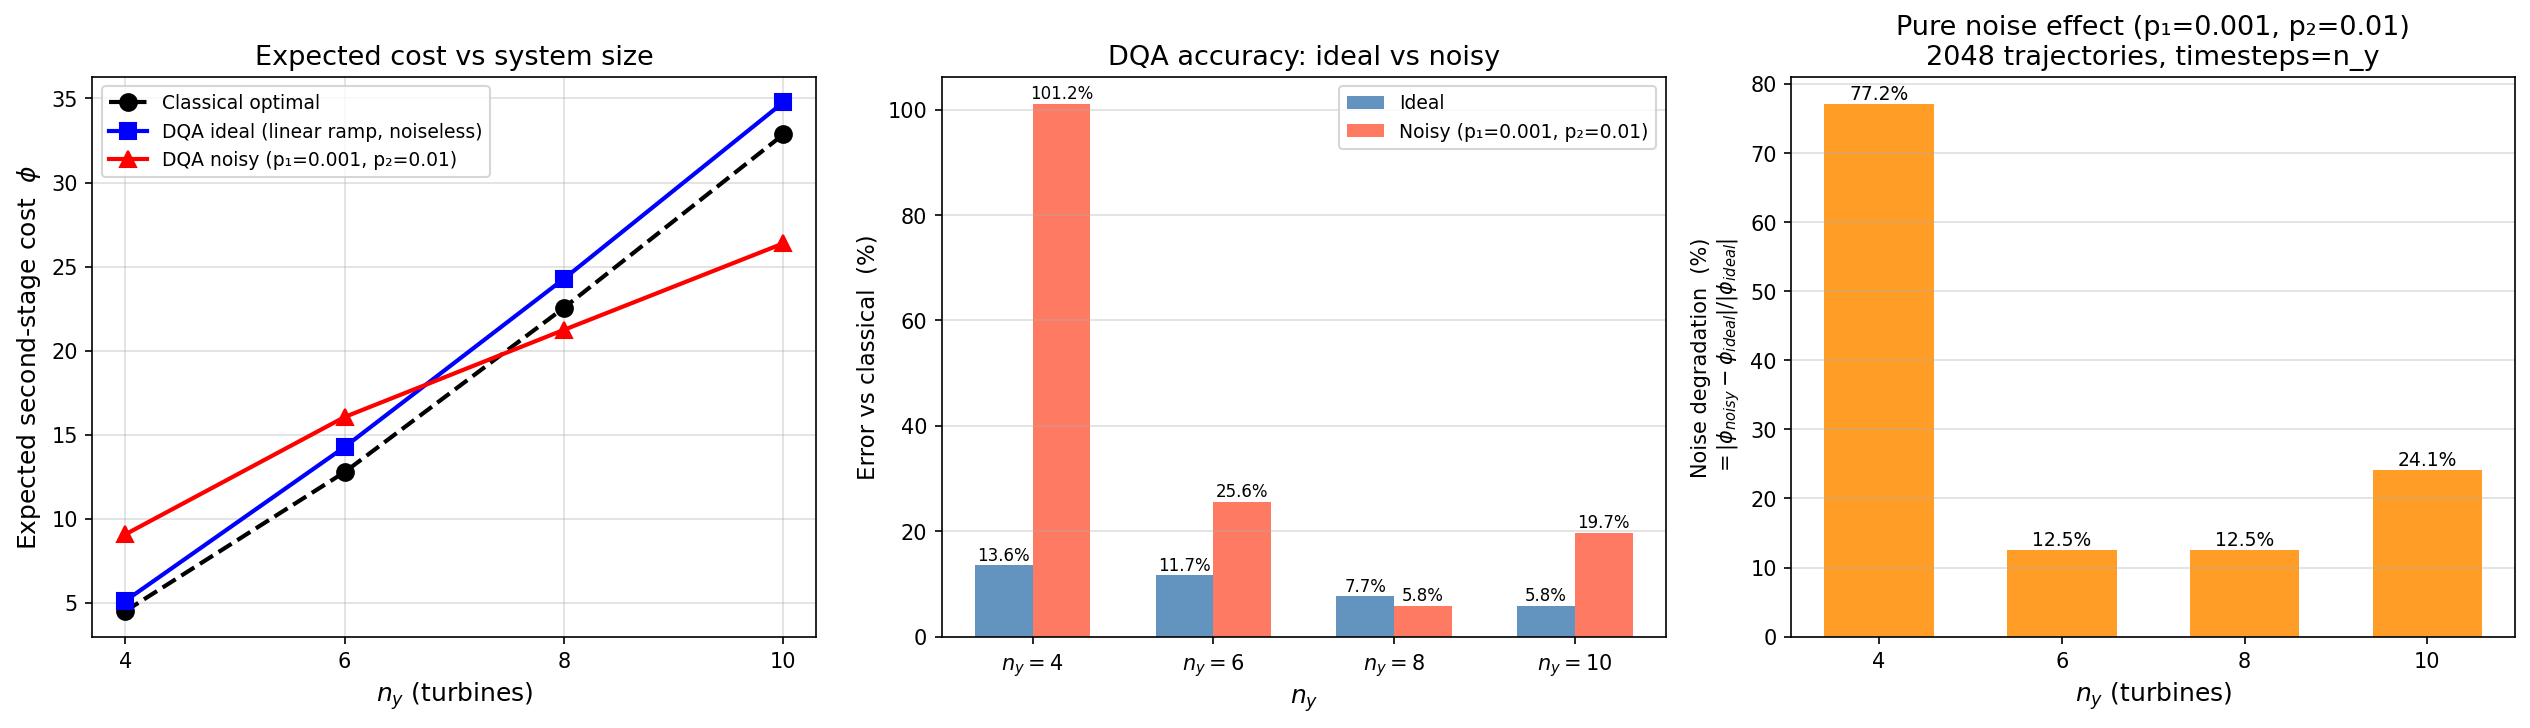
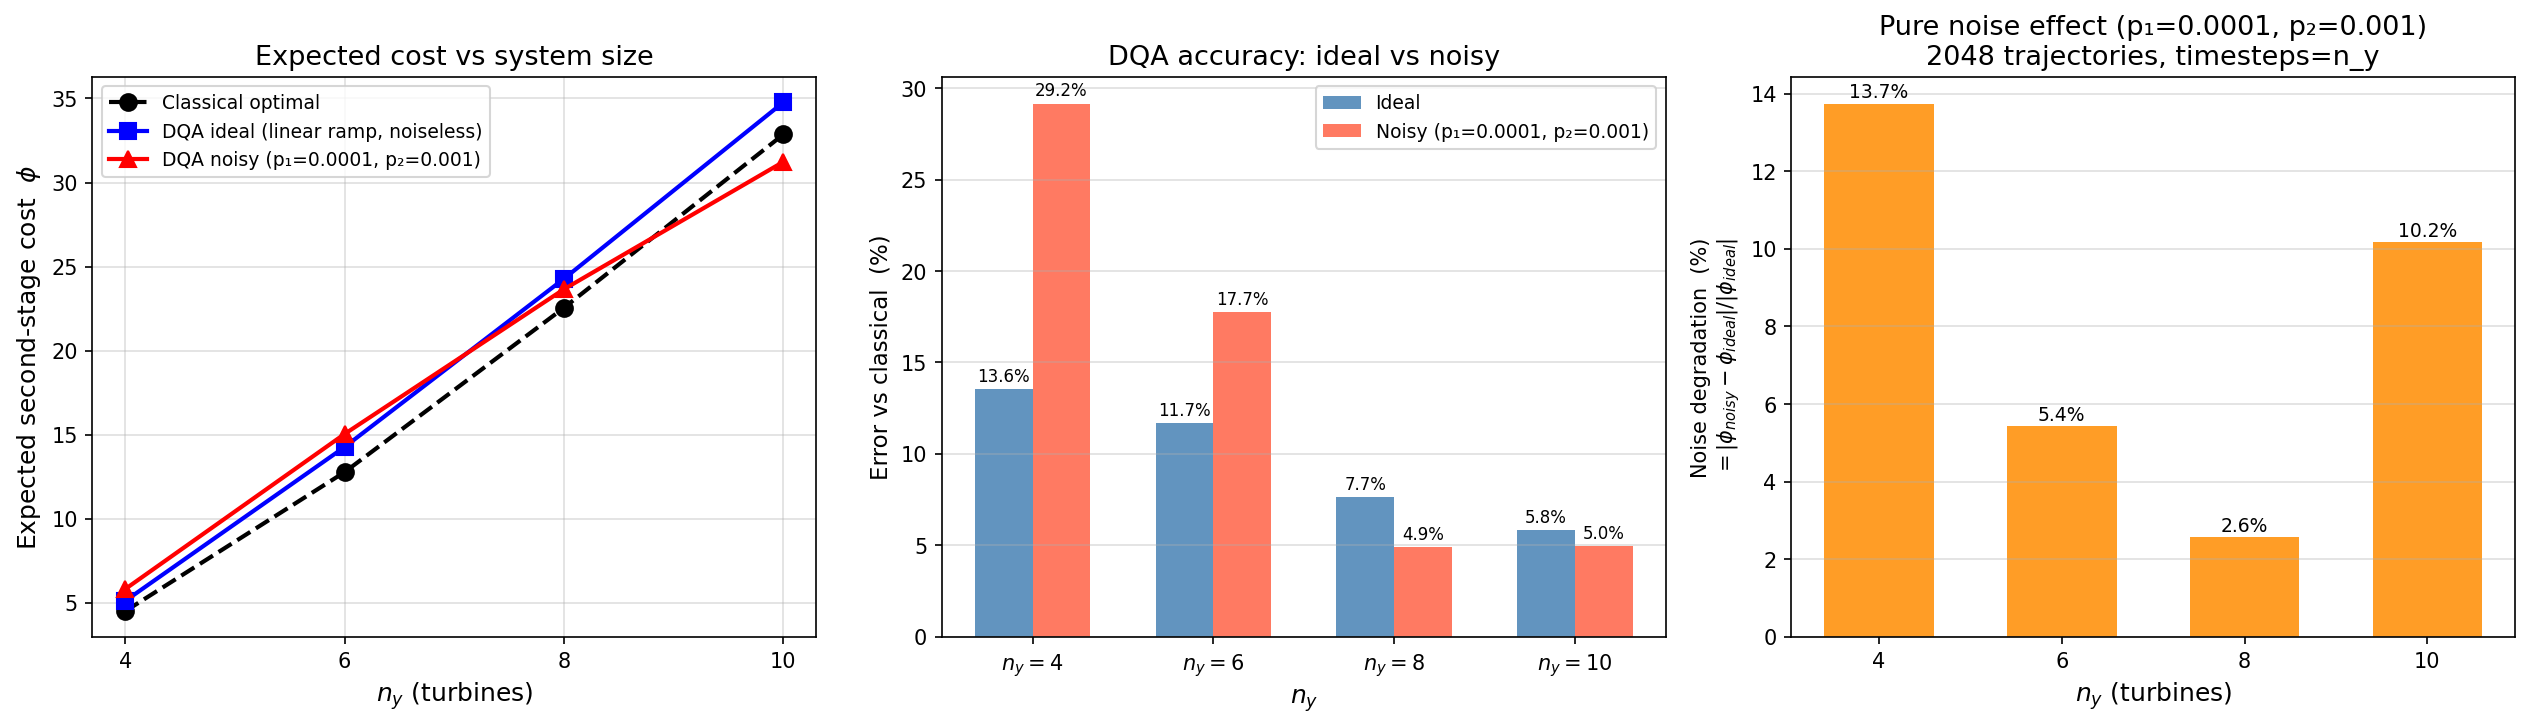
noise study: reduce to realistic p1=0.0001, p2=0.001 (previous p2=0.01 caused 101% error for n_y=4)

diff --git a/qiskit_impl/run_noise_study.py b/qiskit_impl/run_noise_study.py
@@ -38,7 +38,7 @@ print(f'CUDA-Q  target : {cudaq.get_target().name}')
 print(f'GPUs available : {cudaq.num_available_gpus()}')
 
 # ── NOISE MODEL ───────────────────────────────────────────────────────────────
-P1, P2  = 0.001, 0.010
+P1, P2  = 0.0001, 0.001   # realistic near-term: p1=0.01%, p2=0.1% per gate
 N_TRAJ  = 2048
 noise_model = build_depolarizing_noise_model(p1=P1, p2=P2)
 print(f'Noise model    : p1={P1}, p2={P2}, trajectories={N_TRAJ}\n')